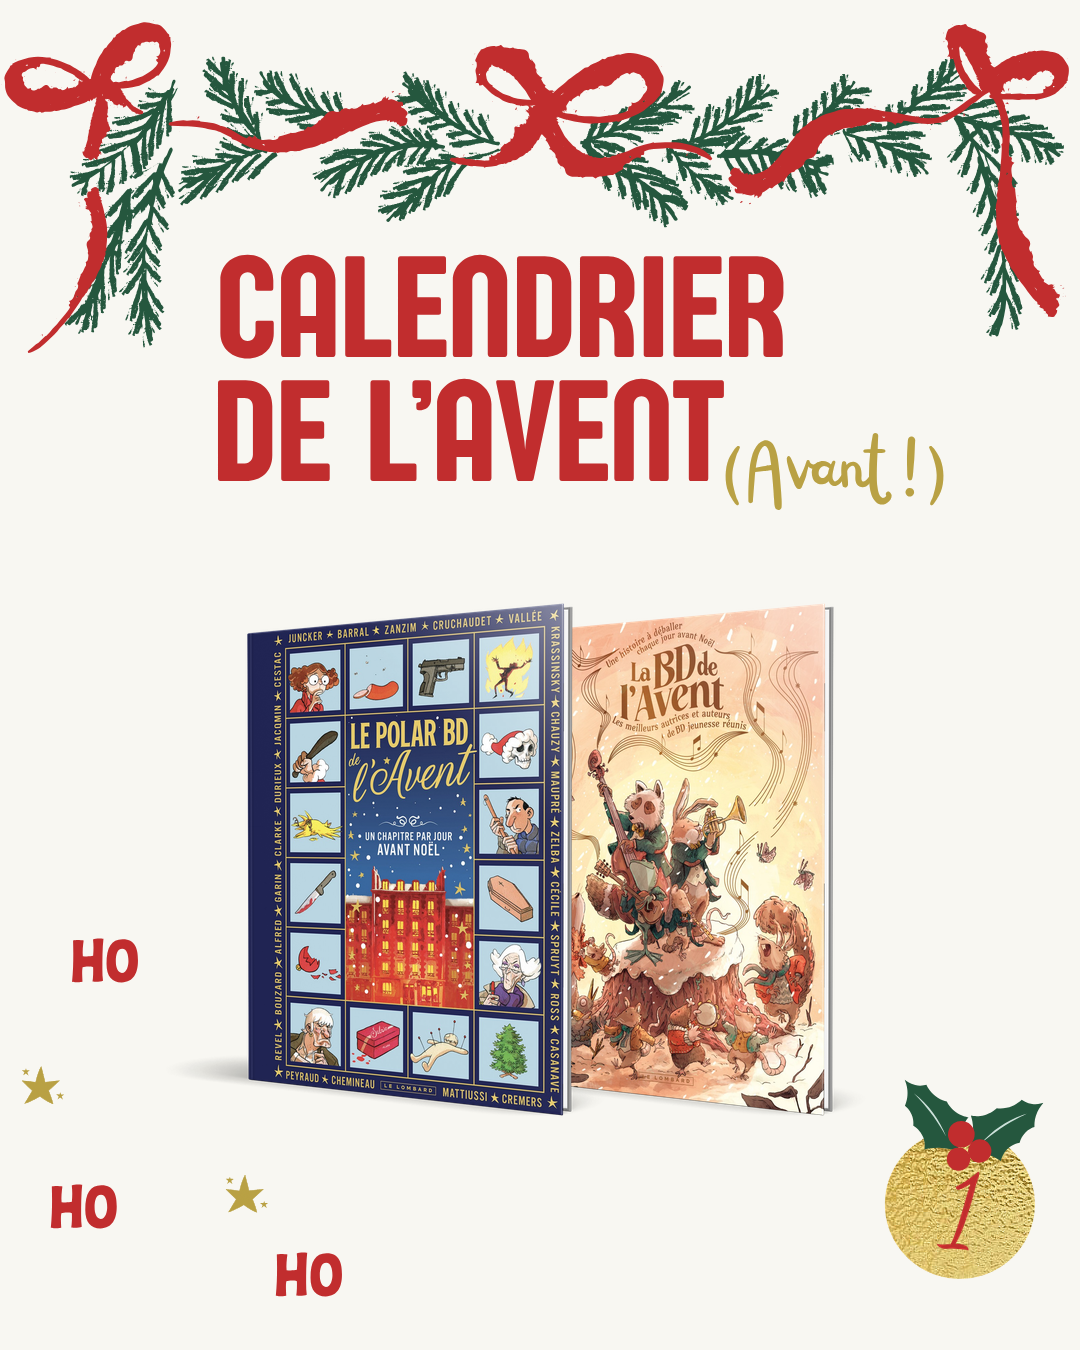
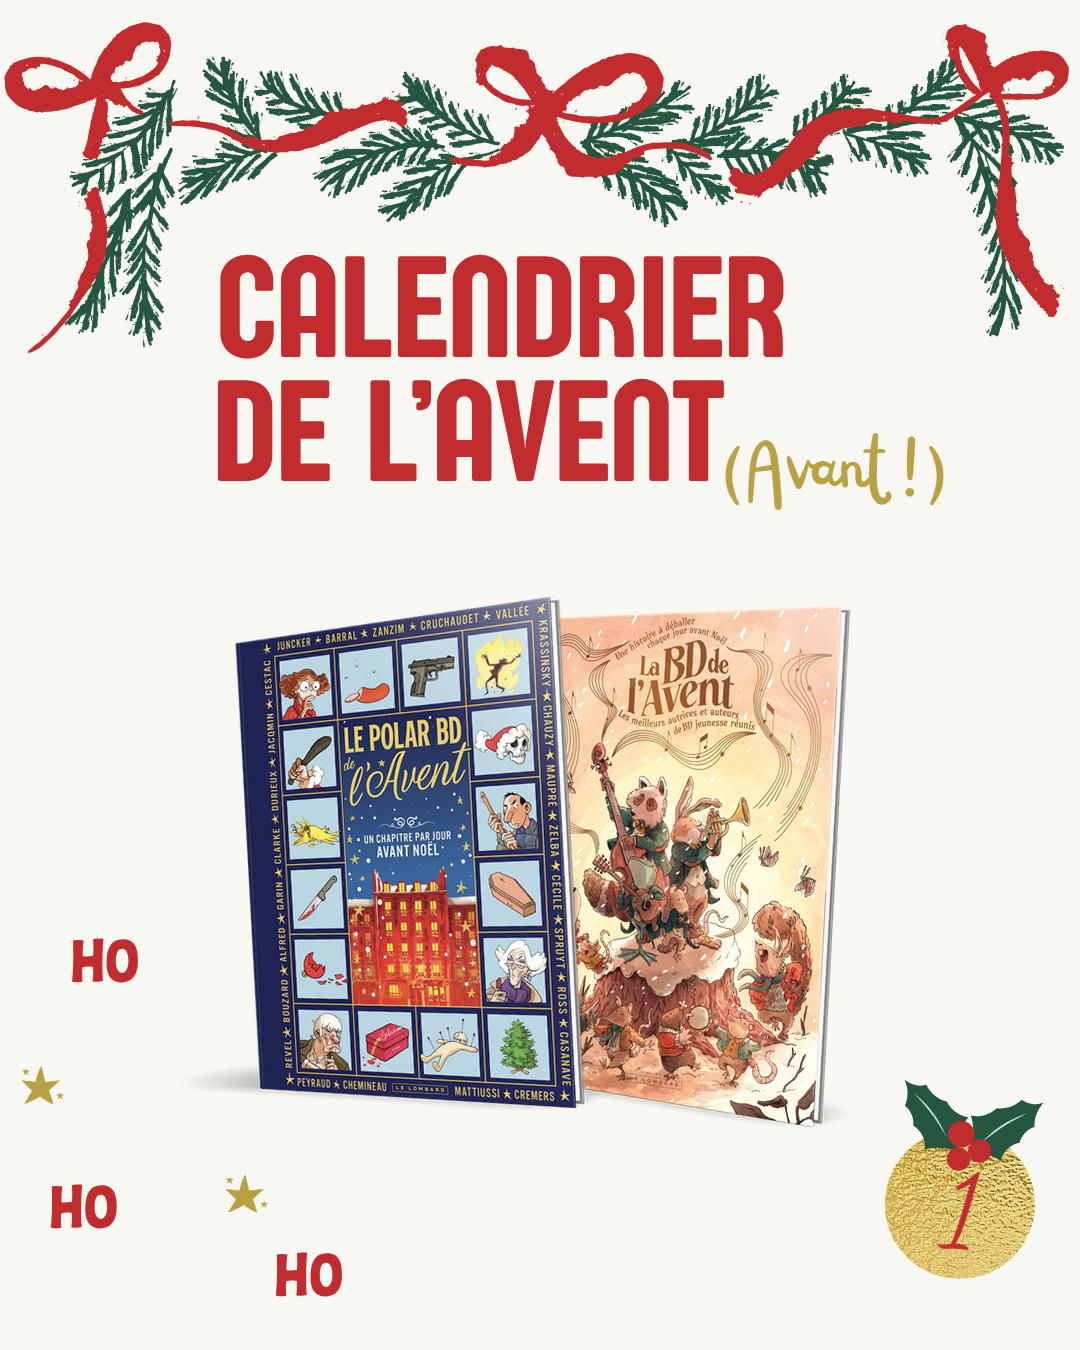
Calendrier Avant : angle et échelle par album (jour 1 : -3°, +3° et 102 % à droite)
Claude-Session: https://claude.ai/code/session_01QaZk7QZvzTVY1x8op41wve

Changed region(s): [[0.1833, 0.4356, 0.7944, 0.84]]

diff --git a/calendrier-avent-2026/compose.py b/calendrier-avent-2026/compose.py
@@ -87,9 +87,23 @@ def main(cfg_path, out_path):
     # même taille pour tous ; on dessine de droite à gauche : l'album de droite est à l'arrière-plan
     for i, b in reversed(list(enumerate(cfg['books']))):
         im = render_book(p(b['img']))
-        im = im.resize((round(im.width * s), round(im.height * s)), Image.LANCZOS)
+        w0, h0 = im.width * s, im.height * s
         x = b.get('x', round(left + i * step - off)); y = b.get('y', lay.get('y', 600))
-        bg.alpha_composite(im, (x, y))
+        # centre du livre (hors ombre) : point fixe pour l'échelle et la rotation
+        bx = x + (743 + 1635) / 2 * s - CROP[0] * s; by = y + (129 + 1533) / 2 * s - CROP[1] * s
+        k = s * b.get('scale', 1)
+        im = im.resize((round(im.width * k), round(im.height * k)), Image.LANCZOS)
+        ccx = ((743 + 1635) / 2 - CROP[0]) * k; ccy = ((129 + 1533) / 2 - CROP[1]) * k
+        ang = b.get('angle', 0)                        # + = sens horaire (comme le numéro)
+        if ang:
+            W0, H0 = im.size
+            im = im.rotate(-ang, resample=Image.BICUBIC, expand=True, center=(ccx, ccy))
+            # avec expand, PIL tourne autour du centre de l'image : on recalcule la position du point fixe
+            import math
+            a = math.radians(-ang); dx, dy = ccx - W0 / 2, ccy - H0 / 2
+            ccx = im.width / 2 + dx * math.cos(a) + dy * math.sin(a)
+            ccy = im.height / 2 - dx * math.sin(a) + dy * math.cos(a)
+        bg.alpha_composite(im, (round(bx - ccx), round(by - ccy)))
     # date dans la boule
     d = cfg['date']; cx, cy, diam = d['cx'], d['cy'], d['diam']
     font_path = p(d['font'])

diff --git a/calendrier-avent-2026/README.md b/calendrier-avent-2026/README.md
@@ -6,7 +6,7 @@ Concours sur 24 jours, du 7/11 au 30/11/2026. Le planning est dans l'onglet « P
 Chaque jour est décrit par un fichier `jours/jourNN.json` :
 - `books` : couvertures (récupérées sur lelombard.com/bd/nouveautes, format M1000x1300), de gauche à droite, tous à la même taille ; chaque album passe derrière celui de gauche ;
 - `layout` : `y` (haut du mockup), `h` (hauteur), `overlap` (chevauchement, 0.2 = 20 % de la largeur d'un album), `cx` (centre horizontal du groupe).
-  On peut aussi forcer `x`/`y` sur un album ;
+  Par album : `angle` (en degrés, + = sens horaire), `scale` (1.02 = 102 %), et `x`/`y` pour forcer la position ;
 - `date` : numéro du jour (1 à 24), police, couleur (#C12D2E), angle (+5° = sens horaire) et `fill`.
   La taille est calculée automatiquement : 90 % (`fill`) de la taille maximale qui tient dans la partie dorée de la boule, sous le houx.
 
